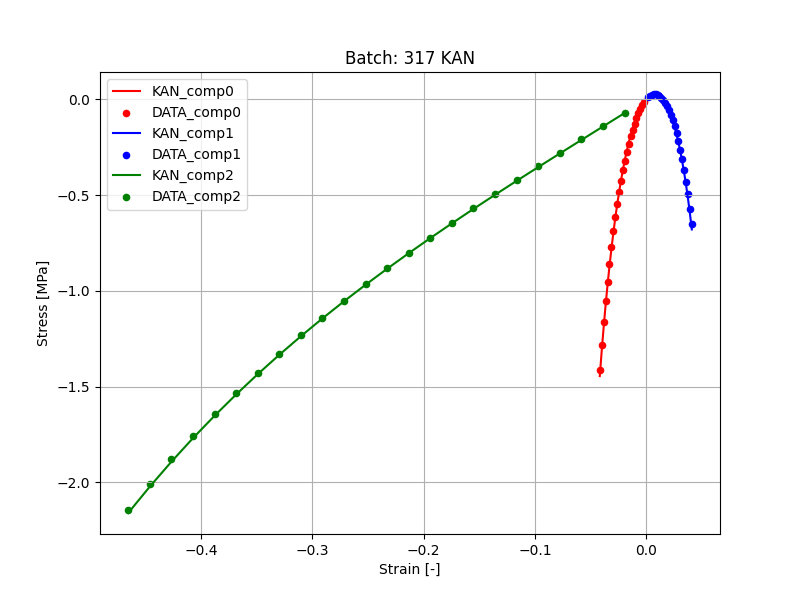
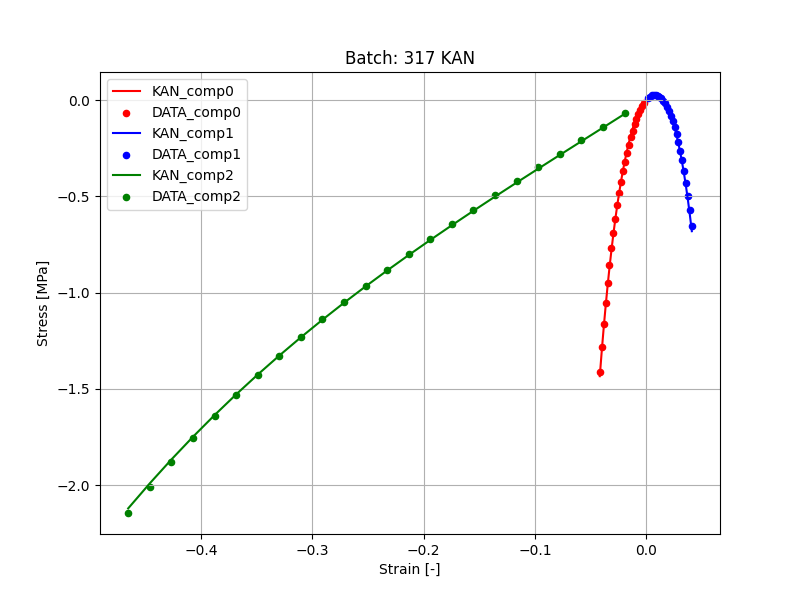
normalized W and S

diff --git a/data_sets/KAN_ann.py b/data_sets/KAN_ann.py
@@ -11,6 +11,7 @@ import random
 import cl_loader as cl_loader
 from sklearn.model_selection import train_test_split
 
+
 # Define the GetColor method
 def GetColor(component):
     if component == 0:
@@ -22,16 +23,21 @@ def GetColor(component):
     else:
         return "k"  # Black for any other component
 
+
+
 #=============================================================================================================
 """
 INPUT DATASET:
 """
-n_epochs = 200
+n_epochs = 80
 learning_rate = 0.05
 number_of_steps = 25
 ADD_NOISE = False
 database = cl_loader.CustomDataset("neo_hookean_hyperelastic_law/raw_data", number_of_steps, None, ADD_NOISE)
 #=============================================================================================================
+
+
+
 
 ref_strain_database = torch.stack([item[0] for item in database]) # batch x steps x strain_size
 ref_stress_database = torch.stack([item[1] for item in database]) # batch x steps x strain_size
@@ -66,13 +72,8 @@ print("Strain size      : ", train_strain_database.shape[2])
 class KANStressPredictor(nn.Module):
     """
     KAN-based Stress Predictor with support for multiple orders of stretches.
-
-    pip install pyyaml
-    pip install pykan
-    pip install scikit-learn
-    pip install tqdm
-    pip install pandas
     """
+
     def __init__(self):
         super(KANStressPredictor, self).__init__()
 
@@ -86,14 +87,13 @@ class KANStressPredictor(nn.Module):
 
         # KAN definition
         self.KAN_W = KAN.MultKAN(
-            width=[self.input_size,   1,   1],
+            width=[self.input_size, 1, 1],
             grid=self.grid,
             k=self.k
-            # symbolic_enabled = False
-            )
+        )
 
         # Initialize some extra parameters
-        self.ki = nn.ParameterList([ # order of the log, 2 params per mode: one per lambdas and another for J
+        self.ki = nn.ParameterList([
             nn.Parameter(torch.tensor(float(p + 1) + random.random())) for p in range(self.order_stretches + 1)
         ])
 
@@ -101,7 +101,10 @@ class KANStressPredictor(nn.Module):
         self.ki[-1] = nn.Parameter(torch.tensor(1.0))
 
     # ==========================================================================================
-    def CalculateW(self, strain):
+    def CalculateWWithoutNormalization(self, strain):
+        """
+        Computes W for the given strain without normalization.
+        """
         batches = strain.shape[0]
         steps = strain.shape[1]
 
@@ -157,8 +160,35 @@ class KANStressPredictor(nn.Module):
         return W
 
     # ==========================================================================================
+    def CalculateW(self, strain):
+        """
+        Computes W for the given strain and subtracts W evaluated at strain = torch.zeros.
+        """
+        # Compute W at strain = torch.zeros
+        zeros = torch.zeros_like(strain)
+        W0 = self.CalculateWWithoutNormalization(zeros)
+
+        # Compute W without normalization
+        W = self.CalculateWWithoutNormalization(strain)
+
+        # Subtract W0 from W
+        return W - W0
+
+    # ==========================================================================================
     def forward(self, strain):
+        """
+        Forward pass to compute the gradient of W with respect to strain.
+        """
         strain = strain.detach().requires_grad_(True)
+        zeros = torch.zeros_like(strain).requires_grad_(True)
+
+        W0 = self.CalculateW(zeros)
+        grad_at_zero = torch.autograd.grad(
+            outputs=W0,
+            inputs=zeros,
+            grad_outputs=torch.ones_like(W0),
+            create_graph=True
+        )[0]
 
         W = self.CalculateW(strain)  # Shape: (batches, steps, 1)
 
@@ -170,17 +200,8 @@ class KANStressPredictor(nn.Module):
             create_graph=True
         )[0]
 
-
-        zeros = torch.zeros_like(strain).requires_grad_(True)
-        W0 = self.CalculateW(zeros)
-        grad_at_zero = torch.autograd.grad(
-            outputs=W0,
-            inputs=zeros,
-            grad_outputs=torch.ones_like(W0),
-            create_graph=True
-        )[0]
-
         return grad - grad_at_zero
+
 
     # ==========================================================================================
     def ComputeHessian(self, strain):
@@ -356,13 +377,6 @@ if fix_symbolic:
     # model.KAN_W.fix_symbolic(0,1,0,'x^2', random=False)
     # # model.KAN_W.fix_symbolic(0,2,0,'x^2')
 
-    # # Re-initialize the optimizer
-    # optimizer = optim.LBFGS(
-    #                     model.parameters(),
-    #                     lr=0.002,
-    #                     max_iter=20,
-    #                     history_size=30)
-
     # TRAIN_KAN(
     #     model=model,
     #     optimizer=optimizer,
@@ -380,7 +394,7 @@ model.ComputeHessian(ref_strain_database[:, :, :])  # Check the Hessian eigenval
 output_folder = "KAN_predictions"
 os.makedirs(output_folder, exist_ok=True)
 
-# Generate predictions for the full dataset
+# Generate predictions for the full database
 prediction_KAN = model.forward(ref_strain_database)
 
 # Plot and save results for all testing batches
@@ -421,6 +435,7 @@ print(f"Plots saved in the folder: {output_folder}")
 
 
 model.CalculateW(ref_strain_database[:, :, :])  # Compute the spline activations
+# print("check that W is null at zero strain: ", model.CalculateW(torch.zeros_like(ref_strain_database[:, :, :])))
 model.plot_spline_edges()
 model.KAN_W.plot(folder="./KAN_predictions")
 plt.savefig("./KAN_predictions/KAN_splines.png")
